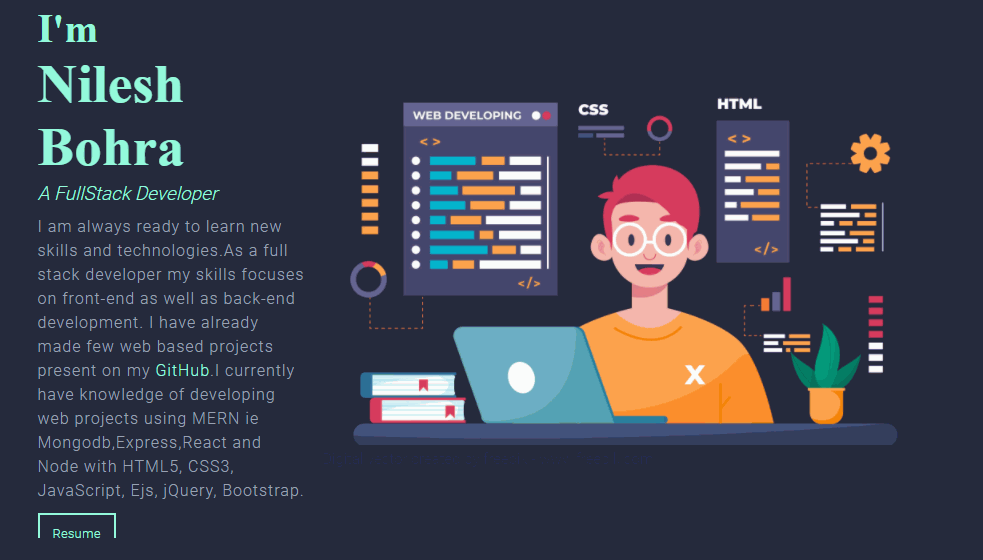
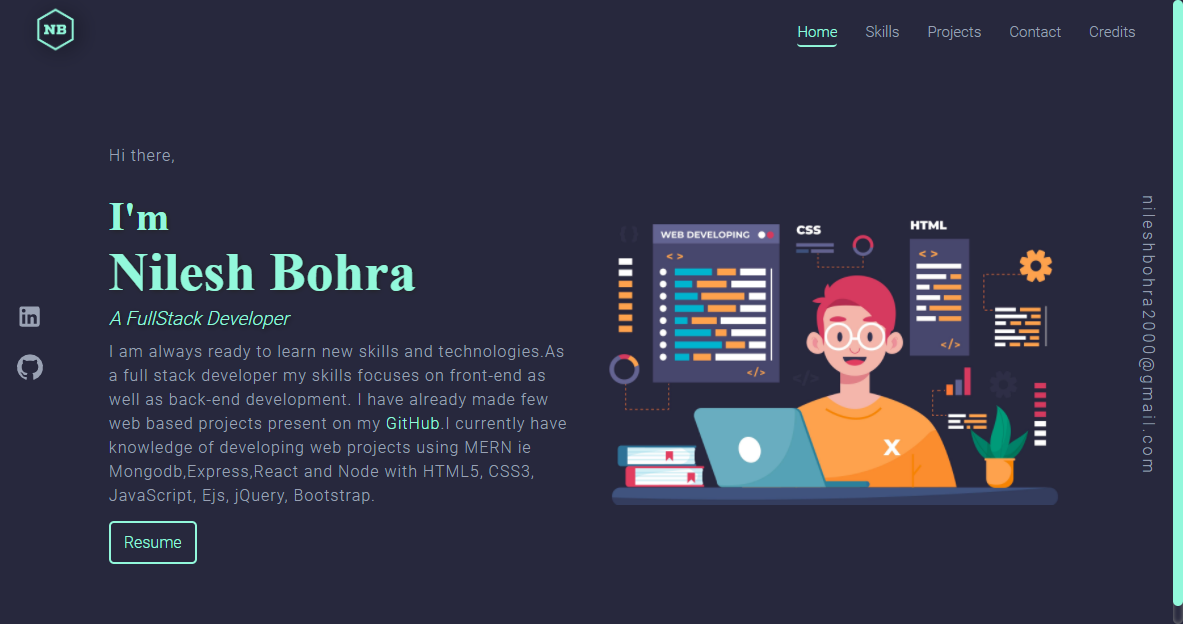
added splashScreen

diff --git a/public/index.css b/public/index.css
@@ -22,7 +22,7 @@ body {
   background-color: var(--primary-bg);
   height: 100vh;
   width: 100vw;
-  overflow-x: hidden;
+  overflow: hidden;
 }
 
 a {
@@ -57,6 +57,7 @@ h1.heading::before {
   border: 2px solid var(--primary-txt);
   background-color: transparent;
   color: var(--primary-txt);
+  border-radius: 5px;
   padding: 10px 13px;
   transition: all linear 0.3s;
 }
@@ -89,6 +90,32 @@ h1.heading::before {
   background: var(--secondary-txt);
 }
 
+/* ------------------------------ splashScreen ------------------------------ */
+.splashScreen{
+  height: 100vh;
+  width: 100vw;
+  display: flex;
+  align-items: center;
+  justify-content: center;
+  overflow: hidden;
+}
+.splashScreenImg{
+  width: 200px;
+  animation-name: blink;
+  animation-duration: 1.2s;
+  animation-timing-function: ease;
+  animation-iteration-count: infinite;
+}
+
+@keyframes blink{
+  from{
+    filter: drop-shadow(0px 0px 4px var(--primary-txt));
+  }
+  to{
+    filter: drop-shadow(4px 2px 10px rgb(0, 0, 0));
+  }
+}
+
 /* ------------------------------ header section ------------------------------ */
 
 header {
@@ -96,18 +123,15 @@ header {
   justify-content: space-between;
   align-items: center;
   height: 10vh;
-  padding: 1% 2%;
+  padding: 1.2% 2%;
   position: sticky;
-  top: 0px;
 }
-.logo a {
-  text-decoration: none;
-  color: var(--primary-txt);
-  font-weight: 900;
-  font-size: 20px;
+.logo {
+  filter: drop-shadow(4px 2px 10px rgb(0, 0, 0));
+  transition: all 0.5s ease;
 }
-.logo a:hover {
-  color: #92f8dbc4;
+.logo:hover {
+  filter: drop-shadow(0px 0px 1.5px var(--primary-txt));
 }
 nav > ul {
   list-style: none;
@@ -124,7 +148,7 @@ li > a {
 li > a:hover {
   color: var(--primary-txt);
 }
-.active{
+.active {
   padding: 4px 0;
   border-bottom: 2px solid var(--primary-txt);
   border-radius: 4px;
@@ -178,7 +202,8 @@ main {
 }
 
 #introduction {
-  padding: 0 15px;
+  width: 50%;
+  padding: 15px;
 }
 h1.myName {
   color: var(--primary-txt);
@@ -203,14 +228,15 @@ h3.title {
   color: var(--secondary-txt);
   line-height: 1.5;
   letter-spacing: 1px;
-  margin: 10px 0;
+  margin: 10px 0 25px;
 }
-.btnResume {
-  margin-top: 10px;
+
+.heroImage {
+  width: 50%;
 }
 .heroImage > img {
-  height: 400px;
-  width: 600px;
+  height: auto;
+  width: 100%;
 }
 
 /* -------------------------- Projects page section ------------------------- */
@@ -391,6 +417,9 @@ textarea {
   .nameTxt {
     font-size: 30px;
   }
+  #introduction{
+    width: 100%;
+  }
   .heroImage {
     margin-top: 10px;
     width: 100%;
@@ -410,7 +439,7 @@ textarea {
   .col {
     width: 100%;
   }
-  .col:nth-child(1){    
+  .col:nth-child(1) {
     margin-bottom: 10px;
   }
   .col:nth-child(2) {
@@ -428,9 +457,8 @@ textarea {
     margin-bottom: 10px;
     padding: 0 15px;
   }
-  .logo a {
-    font-size: 18px;
-  }
+  /* .logo {
+  } */
   #topNav {
     display: none;
   }
@@ -515,6 +543,7 @@ textarea {
   }
   #introduction {
     padding: 0 10px;
+    width: 100%;
   }
   #introduction p.secondaryTxt {
     font-size: 14px;

diff --git a/src/components/ui/App.jsx b/src/components/ui/App.jsx
@@ -1,19 +1,37 @@
-import React from "react";
+import React, { useState } from "react";
 import Nav from "./Nav";
 import Socials from "./Socials";
 import Hero from "./Hero";
 import Email from "./Email";
-import { BrowserRouter as Router} from "react-router-dom";
+import Slide from "@material-ui/core/Slide";
+import { BrowserRouter as Router } from "react-router-dom";
 
 export default function App() {
+  const [Loading, setLoading] = useState(false);
   return (
     <>
-      <Router>
-        <Nav />
-        <Socials />
-        <Hero />
-        <Email />
-      </Router>
+      {Loading ? (
+        <Router>
+          <Nav />
+          <Socials />
+          <Hero />
+          <Email />
+        </Router>
+      ) : (
+        //splashScreen
+        <Slide in={true} direction="down" timeout={1000}>
+          <div className="splashScreen">
+            <img
+              className="splashScreenImg"
+              src="./images/NileshBohra.png"
+              alt=""
+            />
+          </div>
+        </Slide>
+      )}
+      {setTimeout(() => {
+        setLoading(true);
+      }, 3500)}
     </>
   );
 }

diff --git a/src/components/ui/Nav.jsx b/src/components/ui/Nav.jsx
@@ -8,7 +8,7 @@ export default function Nav() {
       <header>
         <div className="logo">
           <NavLink to="/Home" activeClassName="none">
-            Nilesh Bohra
+            <img src="./images/NileshBohra.png" alt="" width="65" />
           </NavLink>
         </div>
         <nav id="topNav">
